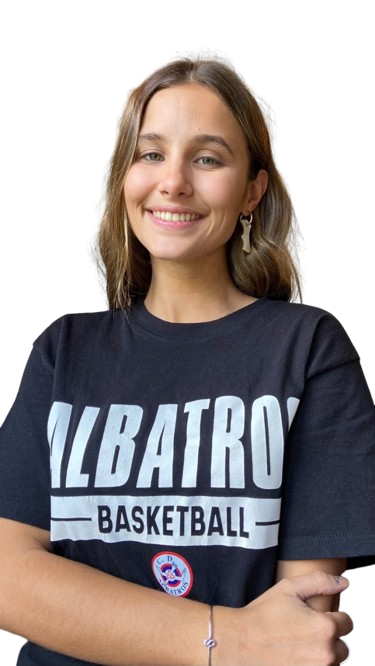
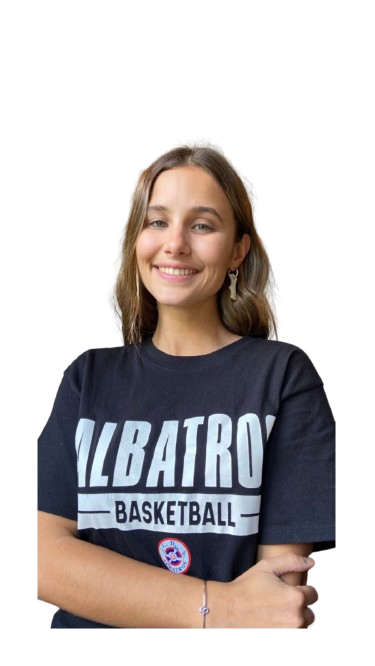
fix hiit typo, activities and staff images, and header navigation (#10)

diff --git a/src/comps/Layout/index.js b/src/comps/Layout/index.js
@@ -1,11 +1,13 @@
 import { Layout, Menu, Grid } from 'antd';
-import { useHistory } from 'react-router-dom';
+import { useHistory, useLocation } from 'react-router-dom';
 
 import Whatsapp from 'comps/Whatsapp';
 import PageFooter from 'comps/PageFooter';
+import { useEffect } from 'react';
 
 const PageLayout = ({ children }) => {
   const history = useHistory();
+  const location = useLocation();
   const { Header, Content } = Layout;
 
   const pathname = window.location.pathname;
@@ -19,6 +21,16 @@ const PageLayout = ({ children }) => {
   currentBreakpoint = currentBreakpoint[currentBreakpoint.length - 1];
   currentBreakpoint = !!currentBreakpoint ? currentBreakpoint[0] : currentBreakpoint;
   const smallScreen = ['xs', 'sm', 'md'].includes(currentBreakpoint);
+
+  useEffect(() => {
+    if (location.hash) {
+      document.querySelector(`${location.hash}`).scrollIntoView({
+        behavior: "smooth",
+        block: "start",
+        inline: "center",
+      });
+    }
+  }, [location.hash])
 
   const onGoToSection = sectionId => {
     document.querySelector(`#${sectionId}`).scrollIntoView({
@@ -53,12 +65,12 @@ const PageLayout = ({ children }) => {
             }}
           >
             <Menu.Item onClick={() => isHome ? onGoToSection('section_1') : onGoToPage('/')} key="1">Inicio</Menu.Item>
-            {isHome && smallScreen && <Menu.Item onClick={() => onGoToSection('section_2')} key="2">Noticias</Menu.Item>}
-            {isHome && <Menu.Item onClick={() => onGoToPage('/club')} key="3">El club</Menu.Item>}
-            {isHome && <Menu.Item onClick={() => onGoToSection('section_3')} key="5">Actividades</Menu.Item>}
-            {isHome && <Menu.Item onClick={() => onGoToSection('section_4')} key="6">Horarios</Menu.Item>}
-            {isHome && <Menu.Item onClick={() => onGoToSection('section_5')} key="7">Staff</Menu.Item>}
-            {!isPenca && <Menu.Item onClick={() => onGoToSection('section_6')} key="8">Contacto</Menu.Item>}
+            {smallScreen && <Menu.Item onClick={() => onGoToPage('#section_2')} key="2">Noticias</Menu.Item>}
+            <Menu.Item onClick={() => onGoToPage('/club')} key="3">El club</Menu.Item>
+            <Menu.Item onClick={() => onGoToPage('/#activities')} key="5">Actividades</Menu.Item>
+            <Menu.Item onClick={() => onGoToPage('/#times')} key="6">Horarios</Menu.Item>
+            <Menu.Item onClick={() => onGoToPage('/#staff')} key="7">Staff</Menu.Item>
+            {!isPenca && <Menu.Item onClick={() => onGoToPage('/#contact')} key="8">Contacto</Menu.Item>}
           </Menu>
         </div>
       </Header>

diff --git a/src/pages/Home/index.js b/src/pages/Home/index.js
@@ -101,11 +101,11 @@ const Home = () => {
           </div>
         </Section>}
 
-        <Section title='Actividades' theme='dark' id='section_3' key='section_3'>
+        <Section title='Actividades' theme='dark' id='activities' key='section_3'>
           <Activities />
         </Section>
 
-        <Section title='Horarios Basquetbol' id='section_times_basket' key='section_times_basket'>
+        <Section title='Horarios Basquetbol' id='times' key='section_times_basket'>
           <Schedule times={timesBasket} defaultTime='escuelita' />
         </Section>
 
@@ -125,18 +125,18 @@ const Home = () => {
           <Schedule times={timesHandball} defaultTime='handball' />
         </Section>
 
-        <Section title='Nuestro Staff' theme='dark' id='section_5' key='section_staff'>
+        <Section title='Nuestro Staff' theme='dark' id='staff' key='section_staff'>
           <Staff />
         </Section>
 
 {
-  false && <Section title='Nuestros Sponsors' id='section_6' key='section_sponsors'>
+  false && <Section title='Nuestros Sponsors' id='sponsors' key='section_sponsors'>
   <Sponsors />
 </Section>
 }
         
 
-        <Section title='Ponete en contacto' bgColor='#171742' fontColor='#fff' id='section_7' key='section_contact'>
+        <Section title='Ponete en contacto' bgColor='#171742' fontColor='#fff' id='contact' key='section_contact'>
           <Contact />
         </Section>
       </PageLayout>

diff --git a/src/sections/Activities/activities.js b/src/sections/Activities/activities.js
@@ -24,8 +24,8 @@ const actividades =  [
     desc: 'Te invitamos a jugar volleyball de manera social y recreativa con un profesor a cargo y muy buenas instalaciones.'
   },
   {
-    title: 'Bascket Social',
-    image: 'volley.jpeg',
+    title: 'Basket Social',
+    image: 'basket_social.jpeg',
     contacto: '091 524 022',
     desc: 'Te invitamos a jugar basquetbol de manera social y recreativa con un profesor a cargo y muy buenas instalaciones.'
   },
@@ -37,15 +37,15 @@ const actividades =  [
   },
   {
     title: 'Pilates',
-    image: 'pilates.png',
+    image: 'pilates.jpeg',
     contacto: '091 524 022',
     desc: 'Entrenamiento físico y mental, uniendo el dinamismo y la fuerza muscular con el control mental, la respiración y la relajación.'
   },
   {
-    title: 'Hit',
-    image: 'hit.png',
+    title: 'Hiit',
+    image: 'hiit.jpeg',
     contacto: '091 524 022',
-    desc: 'El HIT es una actividad deportiva consistente en un entrenamiento interválico de alta intensidad durante corto espacio de tiempo. Se realizan ejercicios a alta intensidad que se combinan con descansos breves.'
+    desc: 'El Hiit es una actividad deportiva consistente en un entrenamiento interválico de alta intensidad durante corto espacio de tiempo. Se realizan ejercicios a alta intensidad que se combinan con descansos breves.'
   },
   {
     title: 'Indoor Cycling',

diff --git a/src/sections/Schedule/index.js b/src/sections/Schedule/index.js
@@ -25,8 +25,8 @@ const Schedule = ({ times, defaultTime }) => {
 
   return (
     <div className='schedule-container' style={{width: '97vw', maxWidth: '1400px', margin: 'auto'}} >
-      <ActivitySelect onSelectActivity={onSelectActivity} times={times} defaultTime={defaultTime} />
-      <Table columns={columns} dataSource={timesData} pagination={false} scroll={{ x: 1400 }} />
+      <ActivitySelect onSelectActivity={onSelectActivity} times={times} defaultTime={defaultTime} key={`schedule_select${defaultTime}`} />
+      <Table columns={columns} dataSource={timesData} pagination={false} scroll={{ x: 1400 }} key={`schedule_table${defaultTime}`} />
     </div>
   );
 };

diff --git a/src/sections/Schedule/utils.js b/src/sections/Schedule/utils.js
@@ -81,7 +81,7 @@ export const orderAvailableTimes = availableTimes => {
     {
       title: 'Miércoles',
       dataIndex: 'wed',
-      key: 'web',
+      key: 'wed',
       render: present => present && <CheckCircleOutlined style={{ color: '#e96264'}}/>,
     },
     {

diff --git a/src/sections/Schedule/times.js b/src/sections/Schedule/times.js
@@ -53,7 +53,7 @@ const timesByActivity = {
     sat: [],
     sun: [],
   },
-  hit: {
+  hiit: {
     mon: [{start_time: '19:00', end_time: '20:00'}],
     tu: [],
     wed: [{start_time: '19:00', end_time: '20:00'}],

diff --git a/src/index.css b/src/index.css
@@ -7,6 +7,7 @@ body {
   -moz-osx-font-smoothing: grayscale;
   max-width: 100%;
   overflow-x: hidden;
+  scroll-behavior: smooth;
 }
 
 code {
